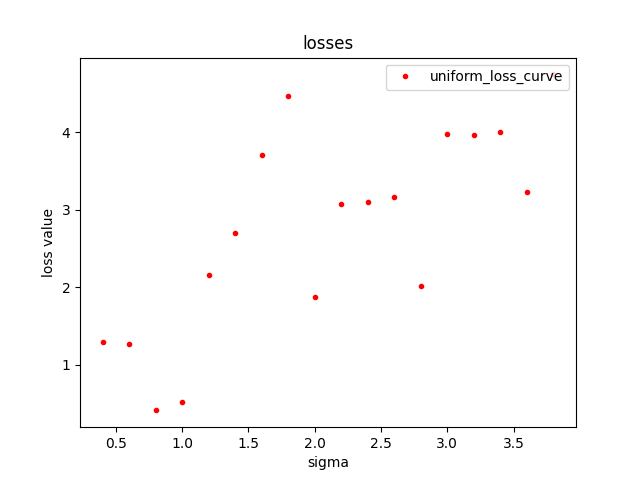
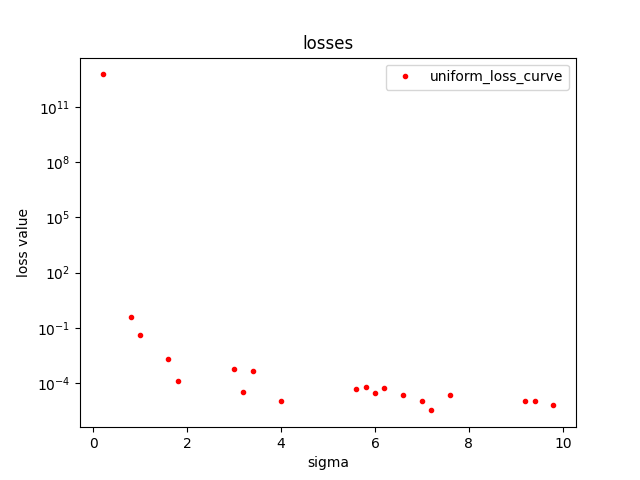
'cur'

diff --git a/basic_loss_plots.py b/basic_loss_plots.py
@@ -36,7 +36,7 @@ def get_normal_heuristics_test_funcs(scale_factor, normal_data):
 
 def generate_grid_loss_curve(grid_type, normal_data):
     if grid_type == "uniform":
-        possible_sigma = np.arange(0.0, 20, 0.2)
+        possible_sigma = np.arange(0.0, 10, 0.2)
     elif grid_type == "normal_heuristic":
         # Note that here it is a scale factor and not directly sigma
         # possible_sigma = np.arange(0.3, 1.0, 0.1)
@@ -59,14 +59,15 @@ def generate_grid_loss_curve(grid_type, normal_data):
             test_funcs, expected_moments = get_normal_heuristics_test_funcs(sigma, normal_data)
         for i in range(RUNNING_REPITITIONS):
             high_kurtosis_data = sample_normal_distribution_with_different_kurtosis(alpha=1.5, dim=OUTPUT_DIM, batch_size=TRAINING_BATCH_SIZE)
-            cur_sigma_uniform_loss.append(normalized_np_moments_loss(high_kurtosis_data, test_funcs, expected_moments))
+            normal_kurtosis_data = sample_normal_distribution_with_different_kurtosis(alpha=1.0, dim=OUTPUT_DIM, batch_size=TRAINING_BATCH_SIZE)
+            cur_sigma_uniform_loss.append(normalized_np_moments_loss(high_kurtosis_data, test_funcs, expected_moments) - normalized_np_moments_loss(normal_kurtosis_data, test_funcs, expected_moments))
         sigma_list.append(sigma)
         mean_sigma_uniform_loss = np.mean(cur_sigma_uniform_loss)
         loss_list.append(mean_sigma_uniform_loss)
         std_sigma_uniform_loss = np.std(cur_sigma_uniform_loss)
         std_list.append(std_sigma_uniform_loss)
 
-        loss_list[-1] /= std_sigma_uniform_loss
+        # loss_list[-1] /= std_sigma_uniform_loss
 
     return (sigma_list, loss_list, std_list, grid_type + "_loss_curve")
 
@@ -76,14 +77,14 @@ def main():
     normal_data = sample_normal_distribution_with_different_kurtosis(alpha=1.0, dim=OUTPUT_DIM, batch_size=NORMAL_POINTS_NUM)
     curves_list = []
 
-    # print("------------------------------Generating Uniform loss plot------------------------------")
-    # curves_list.append(generate_grid_loss_curve("uniform", normal_data))
+    print("------------------------------Generating Uniform loss plot------------------------------")
+    curves_list.append(generate_grid_loss_curve("uniform", normal_data))
 
     # print("------------------------------Generating Normal loss plot------------------------------")
     # curves_list.append(generate_grid_loss_curve("normal_heuristic", normal_data))
 
-    print("------------------------------Generating Normal loss plot------------------------------")
-    curves_list.append(generate_grid_loss_curve("normal_heuristic", normal_data))
+    # print("------------------------------Generating Normal loss plot------------------------------")
+    # curves_list.append(generate_grid_loss_curve("normal_heuristic", normal_data))
 
     print("------------------------------Drawing Normal loss plot------------------------------")
     plot_graph(curves_list, "losses", "sigma", "loss value")

diff --git a/utils.py b/utils.py
@@ -19,7 +19,7 @@ TEST_SIZE = 100 * TESTING_BATCH_SIZE
 TEST_PLOT_EXAMPLES_SIZE = 320
 
 # Other parameters
-RUNNING_REPITITIONS = 100
+RUNNING_REPITITIONS = 1000
 
 
 def plot_graph(curves_list, title, x_label, y_label, axis=False, x_min=None, x_max=None, y_min=None, y_max=None):
